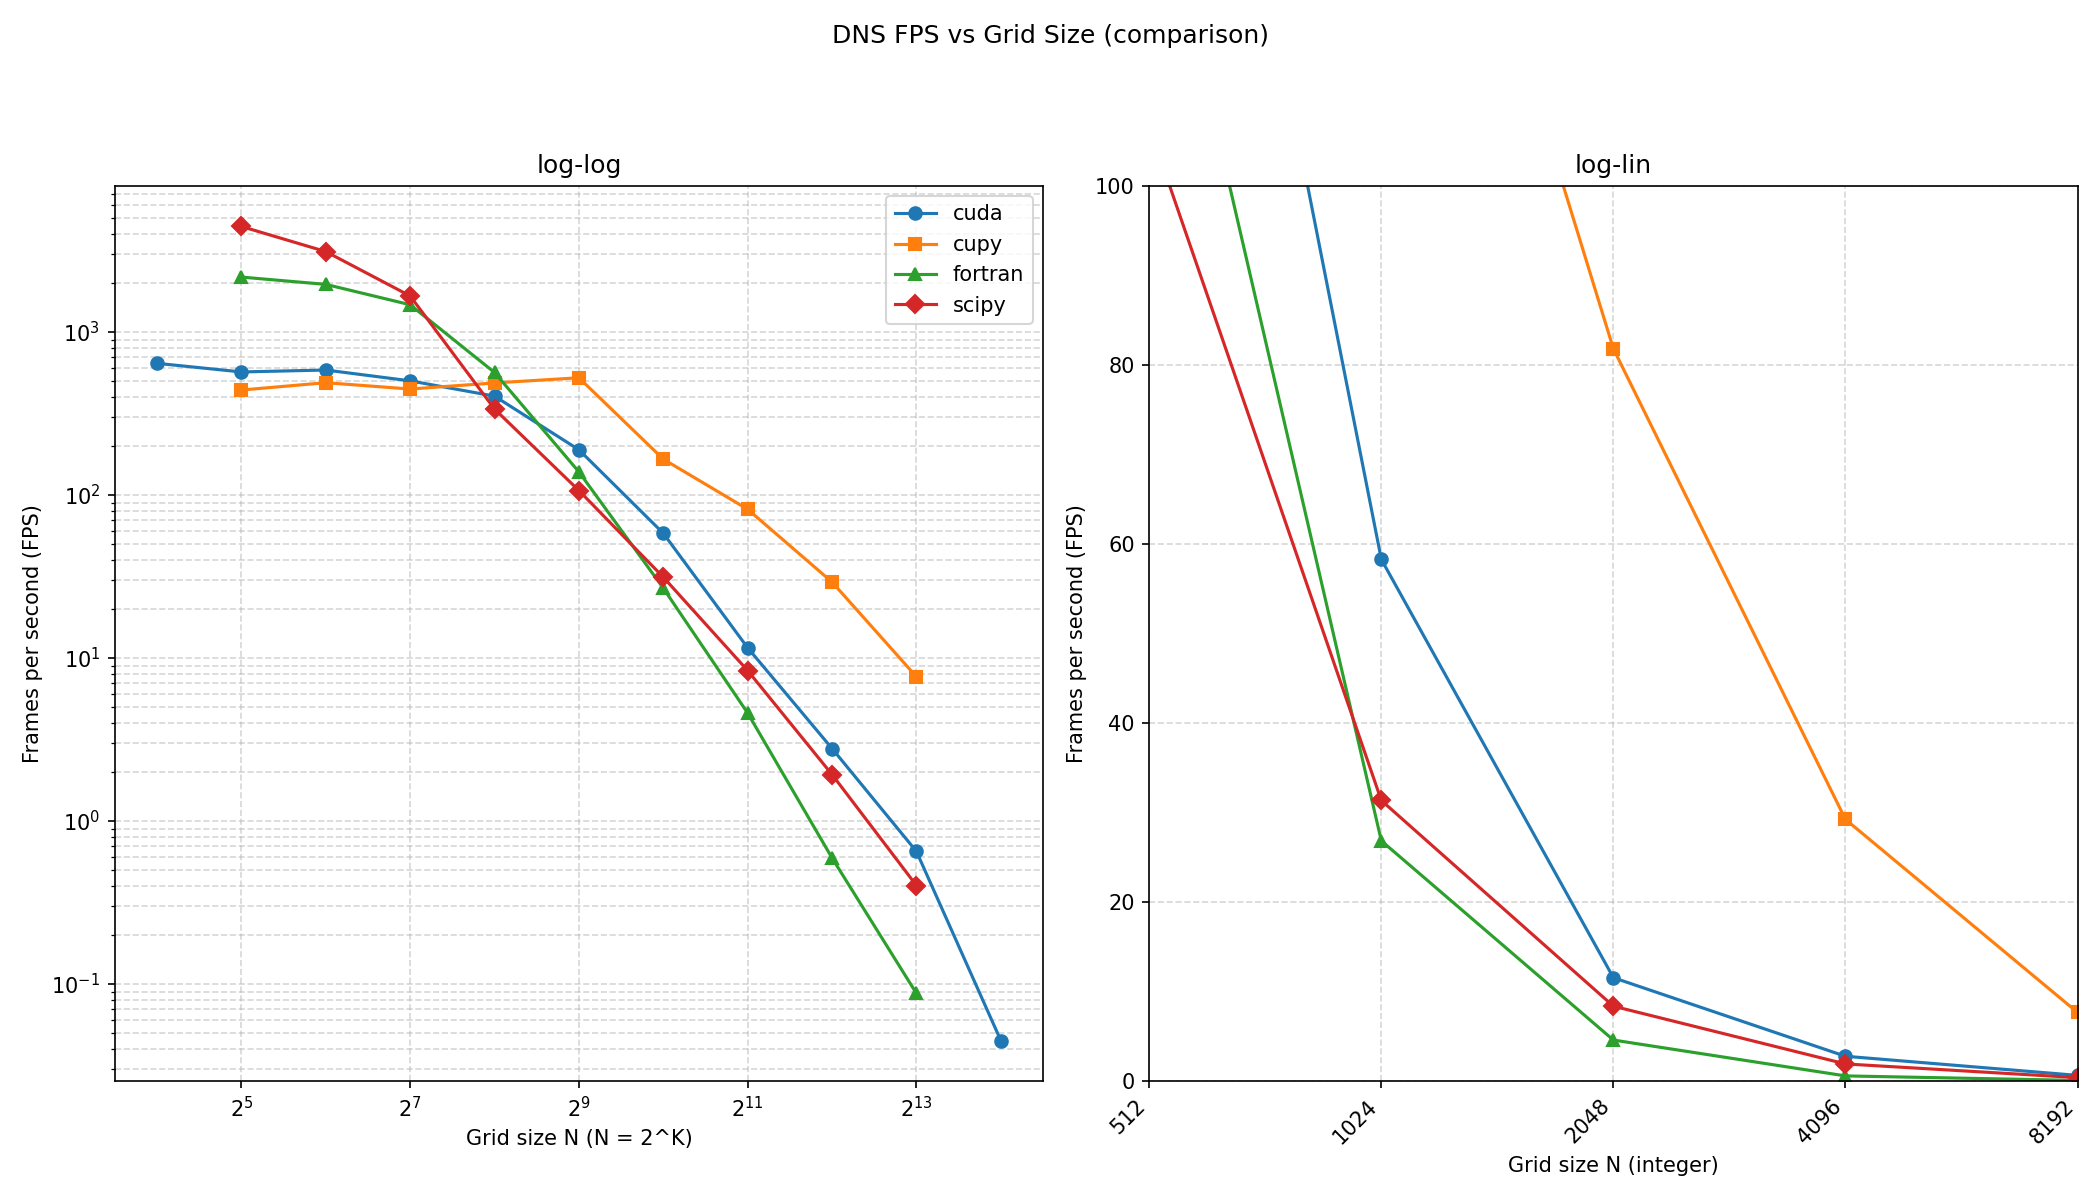
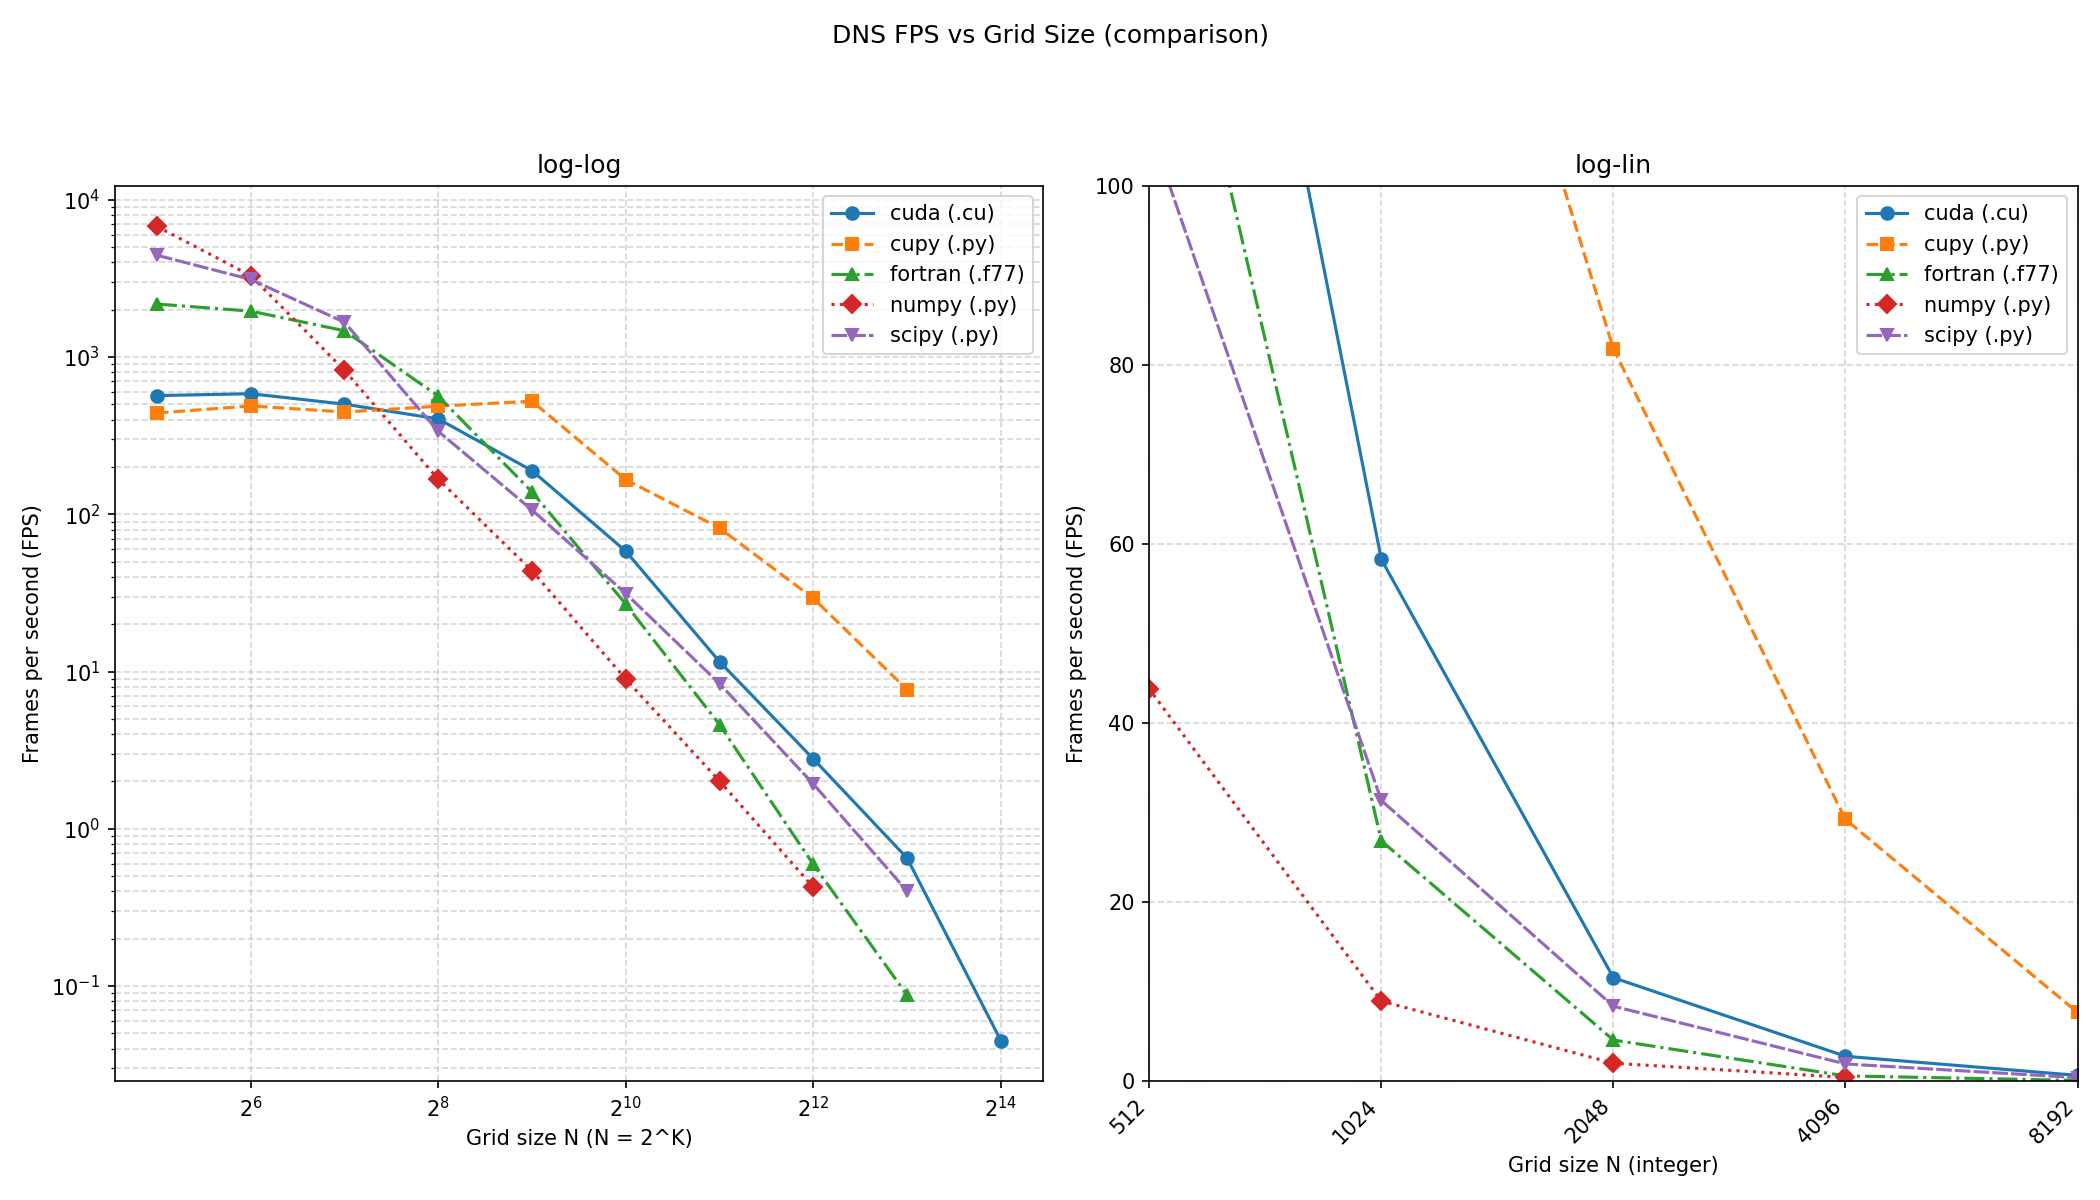
label_map

diff --git a/fps/fps_compare.py b/fps/fps_compare.py
@@ -14,10 +14,25 @@ OUT_PNG = "fps_compare.png"
 
 def label_from_filename(path: str) -> str:
     base = os.path.basename(path)
-    name = os.path.splitext(base)[0]
-    name = name.replace("fps_sweep_", "")
-    return name
+    name = os.path.splitext(base)[0].replace("fps_sweep_", "")
+    key = name.lower()
 
+    label_map = {
+        "cuda":    "cuda (.cu)",
+        "cupy":    "cupy (.py)",
+        "fortran": "fortran (.f77)",
+        "numpy":   "numpy (.py)",
+        "scipy":   "scipy (.py)",
+    }
+
+    # exact match first, then fall back to substring match (for names like "cuda_fast", etc.)
+    if key in label_map:
+        return label_map[key]
+    for k, v in label_map.items():
+        if k in key:
+            return v
+
+    return name
 
 def load_nf(filename: str) -> Tuple[List[int], List[float]]:
     n_vals: List[int] = []
@@ -41,6 +56,8 @@ def main() -> None:
         raise SystemExit(f"No CSV files found matching {CSV_GLOB}")
 
     markers = ["o", "s", "^", "D", "v", "x", "*", "+"]
+    linestyles = ["-", "--", "-.", ":", (0, (5, 1)), (0, (3, 1, 1, 1))]
+
     fig, (ax1, ax2) = plt.subplots(1, 2, figsize=(14, 8))
     fig.canvas.manager.set_window_title("fps_compare")
 
@@ -51,9 +68,10 @@ def main() -> None:
         n, fps = load_nf(fn)
         lbl = label_from_filename(fn)
         m = markers[i % len(markers)]
+        ls = linestyles[i % len(linestyles)]
 
-        ax1.plot(n, fps, marker=m, label=lbl)  # log-log
-        ax2.plot(n, fps, marker=m, label=lbl)  # log-lin
+        ax1.plot(n, fps, marker=m, linestyle=ls, label=lbl)  # log-log
+        ax2.plot(n, fps, marker=m, linestyle=ls, label=lbl)  # log-lin
 
         all_n_min = min(n) if all_n_min is None else min(all_n_min, min(n))
         all_n_max = max(n) if all_n_max is None else max(all_n_max, max(n))
@@ -69,12 +87,12 @@ def main() -> None:
 
     # ---- Right subplot: log-lin ----
     ax2.set_xscale("log", base=2)  # log x
-    # y stays linear
     ax2.set_xlabel("Grid size N (integer)")
     ax2.set_ylabel("Frames per second (FPS)")
     ax2.set_ylim(0, 100)
     ax2.set_title("log-lin")
     ax2.grid(True, which="both", linestyle="--", alpha=0.5)
+    ax2.legend(loc="best")
 
     # Integer tick labels at powers of two (avoid 1eX formatting)
     if all_n_min is not None and all_n_max is not None and all_n_min > 0:
@@ -84,7 +102,6 @@ def main() -> None:
         ax2.set_xticks(xticks)
         ax2.set_xticklabels([str(t) for t in xticks], rotation=45, ha="right")
         ax2.set_xlim(512, 8192)
-        #ax2.set_xlim(all_n_min, all_n_max)
 
     fig.suptitle("DNS FPS vs Grid Size (comparison)")
     fig.tight_layout(rect=[0, 0, 1, 0.93])
